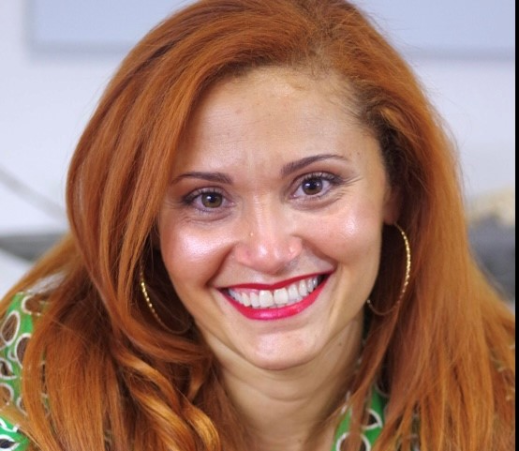
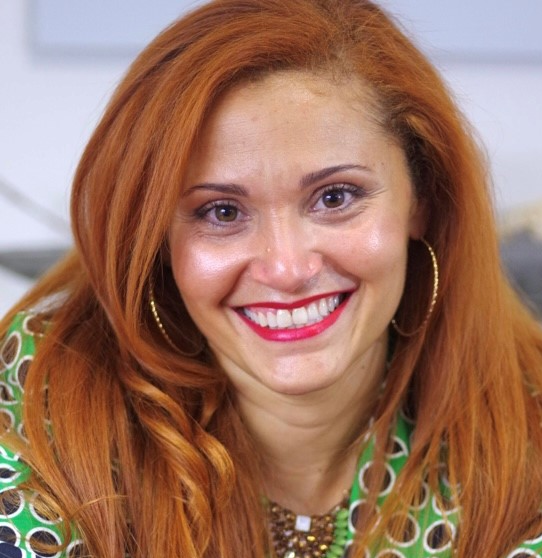
adding collapse navbar, pic staff

diff --git a/src/Pages/Home/Footer/Footer.jsx b/src/Pages/Home/Footer/Footer.jsx
@@ -1,50 +1,66 @@
-import React from 'react';
-import { Col, Container, NavLink, Row } from 'react-bootstrap';
-import './Footer.css'
+import React from "react";
+import { Col, Container, NavLink, Row } from "react-bootstrap";
+import "./Footer.css";
+import { FontAwesomeIcon } from "@fortawesome/react-fontawesome";
+import {
+  faEnvelope,
+  faPhone,
+  faLocationDot,
+} from "@fortawesome/free-solid-svg-icons";
 
 const Footer = () => {
-    return (
-        <div className="footer-bg">
-            <Container>
-                <Row className="text-white justify-content-around">
-                    <Col xs={6} md={3}>
-                        <div className="single-footer-widget">
-                            <div className="widget-title">
-                                <h2>General</h2>
-                            </div>
-                            <div className="widget-content">
-                                
-                                <NavLink className="footer-link">About Us</NavLink>
-                                <NavLink className="footer-link">Our Services</NavLink>
-                                <NavLink className="footer-link">Contact Us</NavLink>
-                            </div>
-                        </div>
-                    </Col>
-
-               
-
-            
-                    <Col xs={6} md={3}>
-                        <div className="single-footer-widget">
-                            <div className="widget-title">
-                                <h2>Our Address</h2>
-                            </div>
-                            <div className="widget-content">
-                                <NavLink className="footer-link">Bradford, ON</NavLink>
-                                
-                                <NavLink className="footer-link">Phone:+1 3500 5867 340</NavLink>
-                                <NavLink className="footer-link">Email:yourdomain@gmail.com</NavLink>
-                                <NavLink className="footer-link">Fax:+1 675 5867 340</NavLink>
-                            </div>
-                        </div>
-                    </Col>
-                </Row>
-            </Container>
-            <div className="footer-copy-right text-center text-white">
-                <p className='mb-0 text-center'>&copy; 2023 - <span className="developer">Gabriel Parada</span> | All Rights Reserved</p>
+  return (
+    <div className="footer-bg">
+      <Container>
+        <Row className="text-white justify-content-around">
+          <Col xs={6} md={3}>
+            <div className="single-footer-widget">
+              <div className="widget-title">
+                <h2>General</h2>
+              </div>
+              <div className="widget-content">
+                <NavLink className="footer-link">About Us</NavLink>
+                <NavLink className="footer-link">Our Services</NavLink>
+                <NavLink className="footer-link">Contact Us</NavLink>
+              </div>
             </div>
-        </div>
-    );
+          </Col>
+
+          <Col xs={6} md={3}>
+            <div className="single-footer-widget">
+              <div className="widget-title">
+                <h2>Our Address</h2>
+              </div>
+              <div className="widget-content">
+                <div>
+                  <address className="footer-link">
+                    <FontAwesomeIcon icon={faLocationDot} /> 48 Sundragon Trail,
+                    Bradford, ON
+                  </address>
+                </div>
+                <div>
+                  <a className="footer-link" href="tel:289-264-3058">
+                    <FontAwesomeIcon icon={faPhone} /> 289-264-3058
+                  </a>
+                </div>
+                <div>
+                  <a className="footer-link" href="mailto: abc@example.com">
+                    <FontAwesomeIcon icon={faEnvelope} /> Send Email
+                  </a>
+                </div>
+              </div>
+            </div>
+          </Col>
+        </Row>
+      </Container>
+      <div className="footer-copy-right text-center text-white">
+        <p className="mb-0 text-center">
+          &copy; 2023 - <span className="developer">Gabriel Parada</span> | All
+          Rights Reserved
+        </p>
+      </div>
+    </div>
+  );
 };
 
 export default Footer;

diff --git a/src/Pages/Home/Header/Header.jsx b/src/Pages/Home/Header/Header.jsx
@@ -1,25 +1,35 @@
 import { faUser } from '@fortawesome/free-solid-svg-icons';
 import { FontAwesomeIcon } from '@fortawesome/react-fontawesome';
-import React from 'react';
+import React, { useEffect, useState } from 'react';
 import { Container, Nav, Navbar } from 'react-bootstrap';
-import { Link } from 'react-router-dom';
+import { Link,useLocation } from 'react-router-dom';
 import useAuth from '../../../Hooks/useAuth';
 import logo from '../../../Images/logo_proyar.png';
+// import 'bootstrap/dist/css/bootstrap.min.css';
+
 import './Header.css';
 
 const Header = () => {
 
-    const { user, logout } = useAuth();
+    // const { user, logout } = useAuth();
+    const [expanded, setExpanded] = useState(false);
+    const location = useLocation();
+
+  useEffect(() => {
+  
+    setExpanded(false);
+  }, [location])
+    
 
     return (
         <div className="head-bg">
-            <Navbar className="navbar" collapseOnSelect expand="lg">
+            <Navbar collapseOnSelect  className="navbar"  expand="md" expanded={expanded}>
                 <Container className="container-head">
-                    <Navbar.Brand href="/home"><img className='logo 'src={logo} alt="logo" /></Navbar.Brand>
-                    <Navbar.Toggle aria-controls="basic-navbar-nav" expand="lg"/>
-                    <Navbar.Collapse id="basic-navbar-nav">
-                        <Nav className="ms-auto align-items-center">
-                            <Link to="/home" className='list-item text-decoration-none'>Home</Link>
+                    <Navbar.Brand   href="/home"><img className='logo 'src={logo} alt="logo" /></Navbar.Brand>
+                    <Navbar.Toggle   expand="md" aria-controls="responsive-navbar-nav"   onClick={() => setExpanded(!expanded)} />
+                    <Navbar.Collapse   id="responsive-navbar-nav">
+                        <Nav   className="ms-auto align-items-center">
+                            <Link  to="/home" className='list-item text-decoration-none'>Home</Link>
                             <Link to="/about" className='list-item text-decoration-none'>About</Link>
                             <Link to="/service" className='list-item text-decoration-none'>Service</Link>
                             {/* <Link to="/dentist" className='list-item text-decoration-none'>Dentist</Link> */}

diff --git a/src/Data/Staff.js b/src/Data/Staff.js
@@ -1,6 +1,6 @@
 import carolina from '../Images/carolina.png';
 import gabriel from'../Images/gabriel.png';
-
+import maria from'../Images/maria.png';
 
 export const Staff = [
     {
@@ -25,7 +25,7 @@ export const Staff = [
         "id": "004",
         "name": "Maria de los Angeles Ojeda",
         "status": "Site Supervisor Manager",
-        "img": "https://i.ibb.co/yRcJ55b/d2.png",
+        "img": maria,
     },
     {
         "id": "005",
